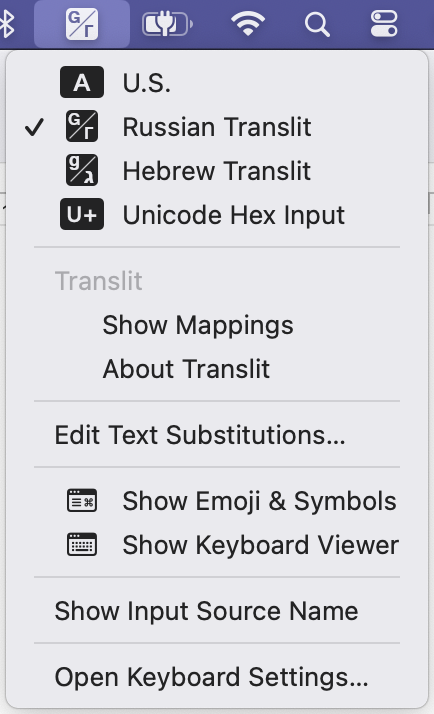
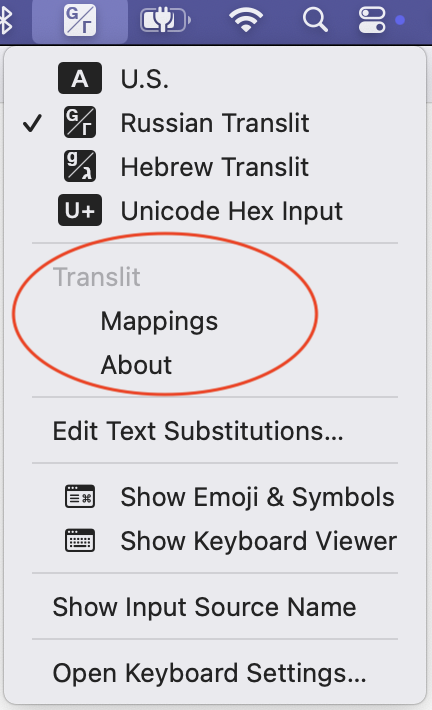
Updating README

diff --git a/README.md b/README.md
@@ -23,7 +23,7 @@ To give an example, typing `privet` in Russian mode will produce `привет` 
 - [Features](#features)
 - [Installation](#installation)
     - [Keyboard shortcuts](#keyboard-shortcuts)
-    - [Viewing transliteration mappings](#viewing-transliteration-mappings)
+    - [Viewing/Configuring transliteration mappings](#viewingconfiguring-transliteration-mappings)
     - [Uninstallation](#uninstallation)
 - [Mappings](#mappings)
     - [Russian](#russian)
@@ -35,19 +35,22 @@ To give an example, typing `privet` in Russian mode will produce `привет` 
 ## Features
 
 - Type normally in any window without copy/pasting from a separate app/browser
-- Supports multiple languages: currently Russian and Hebrew with an easy way to add more if desired.
+- Supports multiple languages: currently Russian and Hebrew with an easy way to add more, if desired.
 - Supports modern macOS versions
-- Distributed as signed and notarized installer - you don't need to build it yourself (but you can if you want to).
+- Distributed as signed and notarized installer - you don't need to build it yourself (but you can, if you want to).
 - Reliable installation and uninstallation on recent versions of macOS.<br/> 
   Starting roughly with macOS Ventura, Apple has introduced various bugs into its keyboard input sources architecture 
   that make adding and removing them unreliable, error prone and require log off. The installer and uninstaller for this
   application makes the whole process reliable and simple for the user.
-- Not using punctuation like `'` or `#` for transliteration.<br/>
+- Not having to use punctuation like `'` or `#` for transliteration.<br/>
   When typing normally on macOS (as opposed to some 
   designated transliteration app) switching between input modes is more complicated - you cannot just press `ESC` like
   [translit.ru][translit_ru] does. This makes typing text with lots of punctuation annoying. Additionally hijacking `'`
   interferes with macOS "smart quotes" if you use this feature. Avoiding punctuation, such  as using `q` for `ь` 
   and `qq` for `ъ` makes typing much smoother.
+- Support for multiple transliteration schemes. Since some people would prefer to use familiar transliteration schemes
+  from elsewhere, this application allows you to choose which scheme to use.
+  Currently the default or [translit.ru][translit_ru] schemes are supported for Russian. More can be added, if desired.
 
   There are existing macOS transliteration projects on Github such as [cyrillic-transliterator][cyrillic-transliterator] 
   and its forks but none of them supports all the features above.
@@ -56,7 +59,7 @@ To give an example, typing `privet` in Russian mode will produce `привет` 
   
 * Navigate to [Releases][releases] page and download `Translit-x.y.pkg` package installer. 
 * Run it and install the app
-* You will be prompted to log off at the end of the installation. This is unfortunately necessary. Apple provides
+* You will be prompted to log off at the end of the installation. This is, unfortunately, necessary. Apple provides
   no way to avoid this.
 * After you log back in launch `System Preferences ⇒ Keyboard`
 * In the `Text Input` section press `Edit...` button for `Input Sources`<br/><br/>
@@ -78,17 +81,26 @@ Select the newly added input method and you can start typing in it anywhere.
 
 ### Keyboard shortcuts
 
-By default macOS sets `⌃Space` and `⌃⌥Space` to switch between different input sources. Which is far more convenient when typing than using the menu bar.
+By default macOS sets `⌃Space` and `⌃⌥Space` to switch between different input sources. 
+This can be far more convenient than using the menu bar when typing mixed language text.
 
 If these aren't working navigate to `System Preferences ⇒ Keyboard ⇒ Keyboard Shortcuts ⇒ Input Sources` and enable or change them.
 
-### Viewing transliteration mappings
+It is also possible to make Caps Lock key switch between default and Translit input source. See
+the following toggle in the `Input Sources` screen.<br/>
+<img src="doc/CapsLock.png" width="500px">
+<br/>
+
+### Viewing/Configuring transliteration mappings
 
 When a transliteration input mode is selected the pop-up system menu will show addition entries like these
 
 <img src="doc/TranslitMenu.png" width="200px">
 
-Select `Show Mappings` to display which Latin characters and combination map to which letters of the target language.
+Select `Mappings` to display which Latin characters and combination map to which letters of the target language.
+If multiple transliteration schemes are supported for the target language you can also change the scheme.
+
+<img src="doc/Mapping.png" width="400px">
 
 
 ### Uninstallation
@@ -114,7 +126,7 @@ to Apple's bugs.
 
 ## Mappings
 
-The character mappings for Russian and Hebrew are given in the following tables
+The default character mappings for Russian and Hebrew are given in the following tables
 
 ### Russian
 
@@ -150,11 +162,12 @@ The character mappings for Russian and Hebrew are given in the following tables
 
 ### Hebrew
 
+<div dir="rtl">
 <table dir="rtl"><tr>
 <td>א</td><td>ב</td><td>ג</td><td>ד</td><td>ה</td><td>ו</td><td>ז</td><td>ח</td>
 <td>ט</td><td>י</td><td>כ</td><td>ך</td><td>ל</td><td>מ</td><td>ם</td>
 </tr><tr>
-<td>a</td><td>b</td><td>g</td><td>d</td><td>h</td><td>o<br>u</td><td>z</td><td>x</td>
+<td>a</td><td>b<br>v</td><td>g</td><td>d</td><td>h</td><td>o<br>u</td><td>z</td><td>x</td>
 <td>T</td><td>i<br>j</td><td>k</td><td>K</td><td>l</td><td>m</td><td>M</td>
 </tr></table>
 <table dir="rtl"><tr>
@@ -164,6 +177,17 @@ The character mappings for Russian and Hebrew are given in the following tables
 <td>n</td><td>N</td><td>s</td><td>y</td><td>f<br>p</td><td>F<br>P</td>
 <td>c</td><td>C</td><td>q</td><td>r</td><td>w</td><td>t</td>
 </tr></table>
+<table dir="rtl"><tr>
+<td>◌ְ</td><td>◌ֵ</td><td>◌ֶ</td><td>◌ֱ</td><td>◌ַ</td><td>◌ָ</td><td>◌ֲ</td><td>◌ֳ</td>
+</tr><tr>
+<td>E</td><td>EE</td><td>EEE</td><td>EEEE</td><td>EA</td><td>EAA</td><td>EAE</td><td>EAAE</td>
+</tr></table>
+<table dir="rtl"><tr>
+<td>◌ִ</td><td>◌ֹ</td><td>◌ֻ</td><td>◌ּ</td><td>שׂ</td><td>שׁ</td><td>׳</td><td>״</td>
+</tr><tr>
+<td>EI</td><td>EO</td><td>EU</td><td>ED</td><td>wES</td><td>wEW</td><td>G</td><td>GG</td>
+</tr></table>
+</div>
 
 ## Building
 
